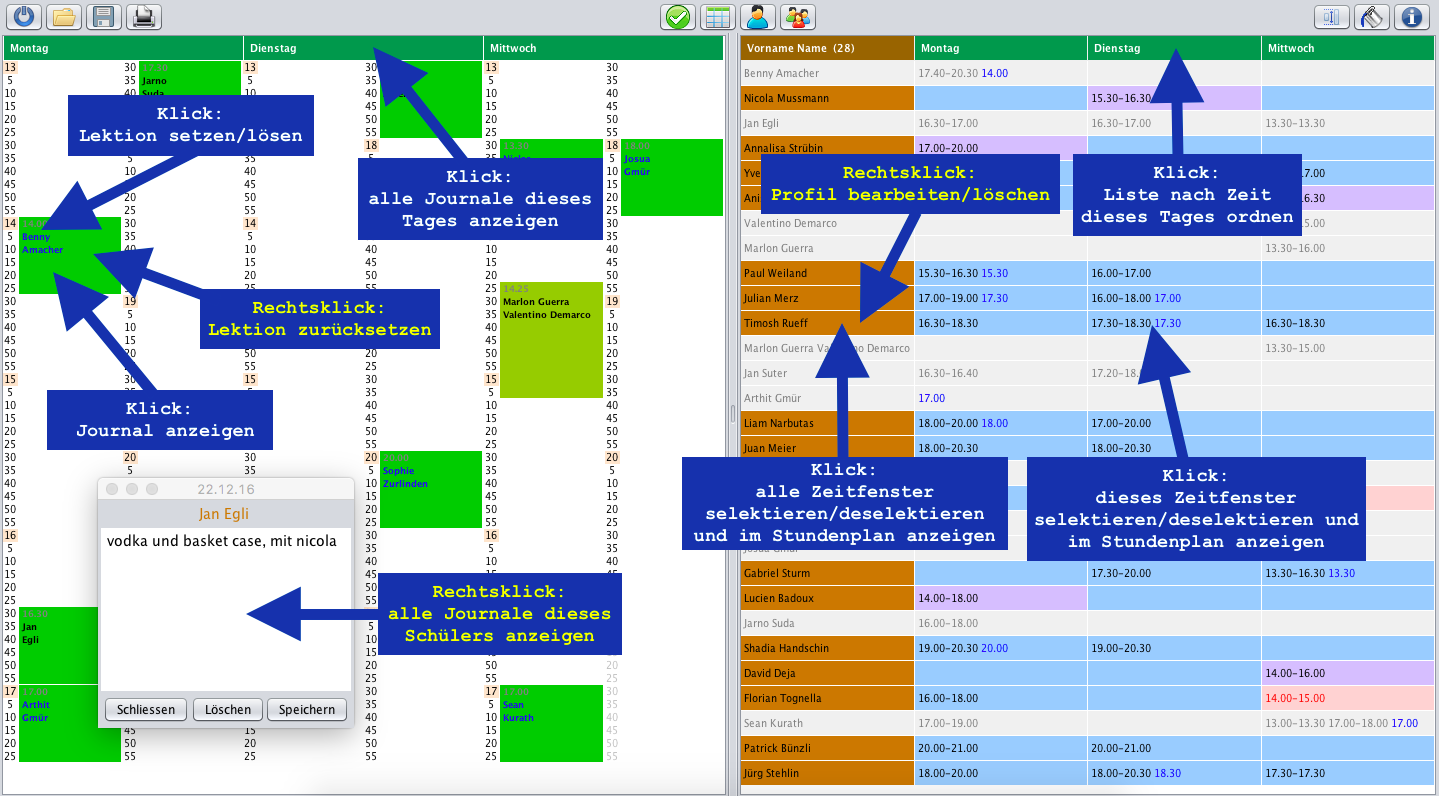
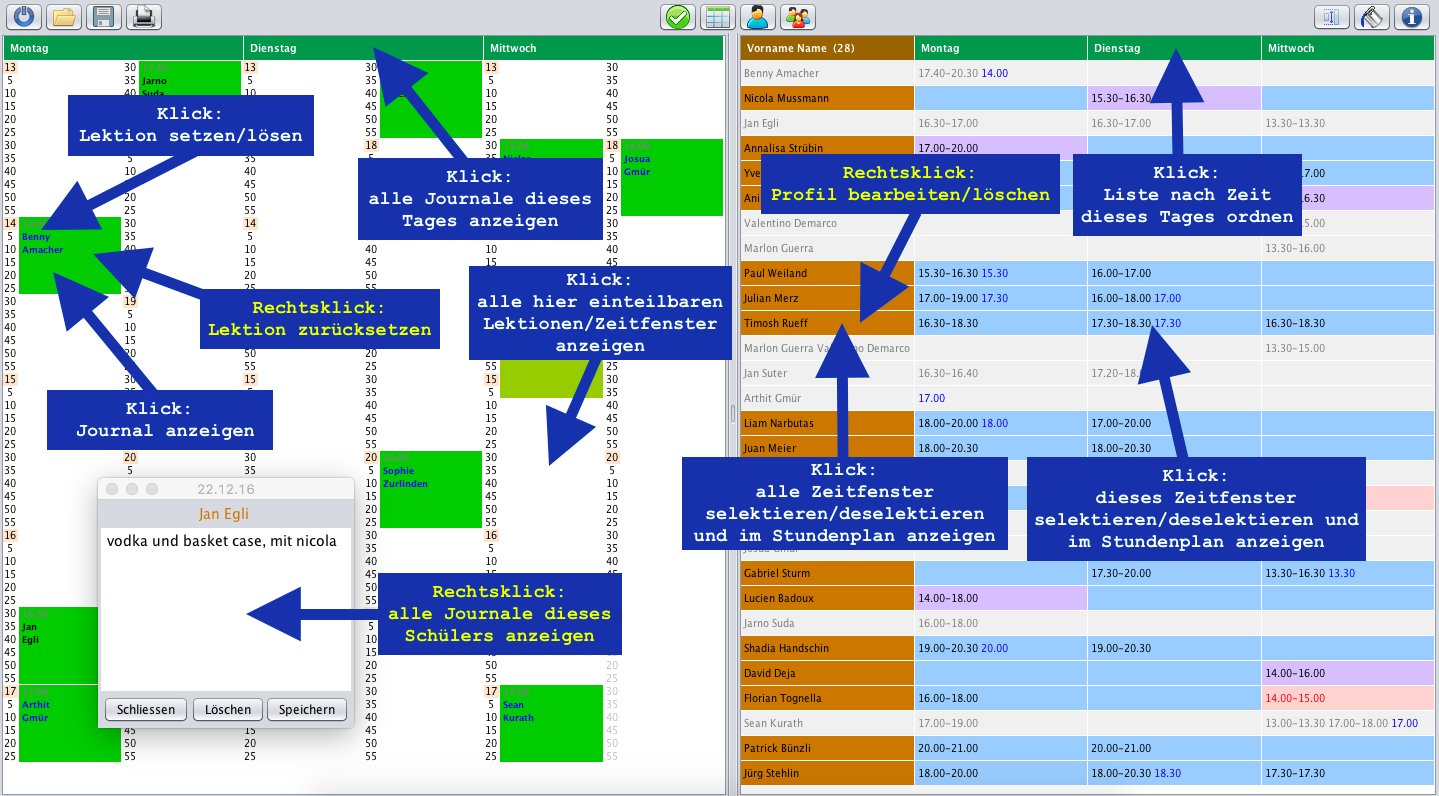
StundenPlaner finished!

Changed region(s): [[0.3058, 0.3317, 0.5198, 0.5729]]

diff --git a/src/userUtils/StudentTimesDistribution.java b/src/userUtils/StudentTimesDistribution.java
@@ -12,6 +12,7 @@ import java.util.ArrayList;
 import java.util.TreeMap;
 import utils.Colors;
 import utils.Time;
+import static utils.Time.*;
 
 /**
  *
@@ -24,7 +25,7 @@ public class StudentTimesDistribution {
     public static final int COLOR_RANGE = 5;
     private ScheduleTimes scheduleTimes;
     private ArrayList<TreeMap> blueMaps, redMaps, purpleMaps;
-    private Time inc, timeMark;
+    private Time timeStep, timeMark;
     private Color color;
 
     public StudentTimesDistribution(ScheduleTimes scheduleTimes) {
@@ -47,12 +48,16 @@ public class StudentTimesDistribution {
 
     private void createColorMaps() {
         for (int i = 0; i < scheduleTimes.getNumberOfValidDays(); i++) {
-            setTimeComponents(scheduleTimes.getValidScheduleDayAt(i));
+            ScheduleDay scheduleDay = scheduleTimes.getValidScheduleDayAt(i);
+            setTimeComponents(scheduleDay);
             TreeMap<Time, Color> blueMap = new TreeMap<>();
             TreeMap<Time, Color> redMap = new TreeMap<>();
             TreeMap<Time, Color> purpleMap = new TreeMap<>();
             for (int j = 0; j < COLOR_RANGE; j++) {
-                timeMark = timeMark.plus(inc);
+                timeMark = timeMark.plus(timeStep);
+                if (j == COLOR_RANGE - 1) { 
+                    timeMark = scheduleDay.getValidEnd(); // Rundungsfehler 
+                }
                 color = Colors.getBlue(j);
                 blueMap.put(timeMark, color);
                 color = Colors.getRed(j);
@@ -69,8 +74,8 @@ public class StudentTimesDistribution {
     private void setTimeComponents(ScheduleDay scheduleDay) {
         timeMark = new Time();
         timeMark = scheduleDay.getValidStart().clone();
-        inc = new Time();
-        inc = (scheduleDay.getValidEnd().minus(scheduleDay.getValidStart())).divBy(COLOR_RANGE, Time.ROUND_UP);
+        timeStep = new Time();
+        timeStep = (scheduleDay.getValidEnd().minus(scheduleDay.getValidStart())).divBy(COLOR_RANGE, ROUND_UP);
     }
 
     public Color getBlue(Time time, int dayIndex) {

diff --git a/src/dataEntryUI/ProfileInputMask.java b/src/dataEntryUI/ProfileInputMask.java
@@ -10,6 +10,12 @@ import core.Database;
 import core.Profile;
 import core.ScheduleTimes;
 import core.StudentTimes;
+import dataEntryUI.group.GroupInputMask;
+import dataEntryUI.group.profiles.GroupEdit;
+import dataEntryUI.group.profiles.GroupEntry;
+import dataEntryUI.student.StudentEdit;
+import dataEntryUI.student.StudentEntry;
+import dataEntryUI.student.StudentInputMask;
 import exceptions.IllegalTimeSlotException;
 import exceptions.NameDuplicateException;
 import exceptions.OutOfBoundException;
@@ -37,10 +43,13 @@ import javax.swing.event.CaretListener;
 import mainframe.MainFrame;
 import scheduleData.ScheduleTimeFrame;
 import utils.Dialogs;
+import utils.GUIConstants;
 
 /**
  *
- * @author mathiaskielholz
+ * Superklasse von {@link StudentInputMask}, {@link GroupInputMask} (= Eingabemasken-UI von
+ * von {@link StudentEntry}, {@link StudentEdit}, {@link GroupEntry}, {@link GroupEdit}
+ * 
  */
 public abstract class ProfileInputMask extends JPanel {
 
@@ -70,6 +79,7 @@ public abstract class ProfileInputMask extends JPanel {
         scheduleTimes = database.getScheduleTimes();
         lectionTypes = new String[]{"30", "40", "50", "KGU", "SDG"}; // = default
         setLayout(new BorderLayout());
+        setBorder(GUIConstants.LIGHT_BORDER);
         createWidgets();
         addWidgets();
         addTextFieldListeners();

diff --git a/src/attendanceListUI/HeaderField.java b/src/attendanceListUI/HeaderField.java
@@ -21,17 +21,15 @@ import static utils.Colors.*;
 
 /**
  *
- * @author mathiaskielholz
+ * Renderer-Component für {@link AttendanceTable}
  */
 public class HeaderField extends JLabel implements TableCellRenderer, MouseMotionListener {
 
     private AttendanceTable attendanceTable;
-    private AttendanceListData attendanceListData;
     private int movedCol;
 
     public HeaderField(AttendanceTable attendanceTable) {
         this.attendanceTable = attendanceTable;
-        attendanceListData = (AttendanceListData) attendanceTable.getModel();
         setBorder(BorderFactory.createMatteBorder(0, 0, 1, 1, BACKGROUND_COLOR));
         setPreferredSize(new Dimension(0, 25));
         setForeground(BACKGROUND_COLOR);
@@ -51,13 +49,6 @@ public class HeaderField extends JLabel implements TableCellRenderer, MouseMotio
             } else {
                 setBackground(DAYFIELD_COLOR);
             }
-//            {
-//                if (attendanceListData.isJournalArchiveEnabled()) {
-//                    setBackground(col == attendanceListData.getCurrentWeekIndex() + 1 ? DAYFIELD_COLOR : DARK_GREEN);
-//                } else {
-//                    setBackground(DAYFIELD_COLOR);
-//                }
-//            }
         }
         String name = (String) value;
         setText(name);

diff --git a/src/dataEntryUI/TimeSelectionTable.java b/src/dataEntryUI/TimeSelectionTable.java
@@ -7,6 +7,7 @@ package dataEntryUI;
 
 import core.ScheduleTimes;
 import core.StudentTimes;
+import dataEntryUI.schedule.ScheduleInputMask;
 import java.awt.Component;
 import javax.swing.JTable;
 import javax.swing.table.DefaultTableCellRenderer;
@@ -15,8 +16,8 @@ import utils.Colors;
 
 /**
  *
- * Sub-UI für die Zeiteinträge, das von {@link ScheduleInputMask} und
- * {@link StudentInputMask} benutzt wird
+ * Sub-UI für die Zeiteinträge von {@link ScheduleInputMask} und
+ * {@link ProfileInputMask}
  */
 public class TimeSelectionTable extends JTable {
 
@@ -61,7 +62,7 @@ public class TimeSelectionTable extends JTable {
         setDefaultRenderer(String.class, new DefaultTableCellRenderer() {
             @Override
             public Component getTableCellRendererComponent(JTable table, Object o, boolean isSelected, boolean hasFocus, int row, int col) {
-                boolean isValidTimeslot2 =!(KGUselected && (col == 3 || col == 4));
+                boolean isValidTimeslot2 = !(KGUselected && (col == 3 || col == 4));
                 setText(studentTimes.getValueAt(row, col).toString());
                 if (scheduleTimes.isValidDay(row) && isValidTimeslot2) {
                     setBackground(Colors.BACKGROUND_COLOR);

diff --git a/src/mainframe/MainFrame.java b/src/mainframe/MainFrame.java
@@ -59,7 +59,7 @@ import utils.GUIConstants;
 
 /**
  *
- * Erzeugung und Initialisierung der StundenPlaner-GUI
+ * Zentrale Klasse für Erzeugung und Initialisierung der StundenPlaner-GUI
  */
 public class MainFrame extends JFrame implements DatabaseListener {
 
@@ -319,6 +319,7 @@ public class MainFrame extends JFrame implements DatabaseListener {
                 JDialog infoFrame = new JDialog(MainFrame.this);
                 infoFrame.setLocation(20, 60);
                 infoFrame.setMinimumSize(GUIConstants.BIG_DIALOG_DIMENSION);
+                infoFrame.setTitle("Screenshot: Alle wichtigen Klicks auf einen Blick");
                 JScrollPane screenshotPane = new JScrollPane(new JLabel(Icons.getIcon("screenshot.png")));
                 JPanel mainPanel = new JPanel(new BorderLayout());
                 JPanel bottom = new JPanel();
@@ -395,6 +396,8 @@ public class MainFrame extends JFrame implements DatabaseListener {
     }
 
     private void showStundenPlaner() {
+        String filename = fileChooser.getSelectedFile().getName();
+        setTitle(filename.substring(0, filename.lastIndexOf(".")));
         scheduleData.updateTableData();
         updateSchedule();
         studentListData.updateAfterFileEntry();

diff --git a/src/dataEntryUI/DataEntryAndEdit.java b/src/dataEntryUI/DataEntryAndEdit.java
@@ -9,8 +9,12 @@ import utils.GUIConstants;
 import dataEntryUI.student.StudentInputMask;
 import dataEntryUI.schedule.ScheduleInputMask;
 import dataEntryUI.group.GroupInputMask;
+import dataEntryUI.group.profiles.GroupEdit;
+import dataEntryUI.group.profiles.GroupEntry;
 import dataEntryUI.schedule.ScheduleEdit;
 import dataEntryUI.schedule.ScheduleEntry;
+import dataEntryUI.student.StudentEdit;
+import dataEntryUI.student.StudentEntry;
 import javax.swing.JDialog;
 import mainframe.MainFrame;
 import scheduleData.ScheduleTimeFrame;
@@ -18,9 +22,8 @@ import studentListData.StudentListData;
 
 /**
  *
- * Superklasse von
- * {@link ScheduleEntry}, {@link ScheduleEdit}, {@link StudentEntry} und
- * {@link StudentEdit}
+ * Superklasse aller Eingabe-Dialogfenster {@link ScheduleEntry}, {@link ScheduleEdit}, {@link StudentEntry}, {@link StudentEdit},
+ *  {@link GroupEntry}, {@link GroupEdit}
  */
 public abstract class DataEntryAndEdit extends JDialog {
 

diff --git a/src/dataEntryUI/schedule/ScheduleInputMask.java b/src/dataEntryUI/schedule/ScheduleInputMask.java
@@ -29,10 +29,11 @@ import javax.swing.JOptionPane;
 import mainframe.MainFrame;
 import scheduleData.ScheduleData;
 import utils.Dialogs;
+import utils.GUIConstants;
 
 /**
  *
- * UI, das von {@link ScheduleEntry} und {@link ScheduleEdit} benutzt wird
+ * UI von {@link ScheduleEntry} und {@link ScheduleEdit}
  */
 public class ScheduleInputMask extends JPanel {
 
@@ -53,6 +54,7 @@ public class ScheduleInputMask extends JPanel {
         scheduleData = mainFrame.getScheduleData();
         scheduleTimes = database.getScheduleTimes();
         setLayout(new BorderLayout());
+        setBorder(GUIConstants.LIGHT_BORDER);
         createWidgets();
         addWidgets();
     }

diff --git a/src/dataEntryUI/group/SelectableMemberGroupInputMask.java b/src/dataEntryUI/group/SelectableMemberGroupInputMask.java
@@ -9,7 +9,9 @@ import static core.ProfileTypes.*;
 import core.Database;
 import core.Profile;
 import core.StudentDay;
+import dataEntryUI.group.kgu.KGUEdit;
 import dataEntryUI.group.kgu.KGUEntry;
+import dataEntryUI.group.sdg.SDGEdit;
 import dataEntryUI.group.sdg.SDGEntry;
 import dataEntryUI.schedule.ScheduleEdit;
 import static utils.GUIConstants.*;
@@ -43,7 +45,8 @@ import utils.Dialogs;
 
 /**
  *
- * @author mathiaskielholz
+ * Superklasse von {@link KGUEntry}, {@link KGUEdit}, {@link SDGEntry}, {@link SDGEdit}
+ * (Dialogfenster und Eingabemasken-UI aller "selectableMember"-Gruppen)
  */
 public abstract class SelectableMemberGroupInputMask extends JDialog {
 

diff --git a/src/studentJournal/JournalDayView.java b/src/studentJournal/JournalDayView.java
@@ -21,7 +21,6 @@ import javax.swing.JDialog;
 import javax.swing.JPanel;
 import javax.swing.JScrollPane;
 import javax.swing.JTextPane;
-import javax.swing.SwingUtilities;
 import javax.swing.event.MouseInputAdapter;
 import javax.swing.text.BadLocationException;
 import javax.swing.text.Style;
@@ -37,7 +36,7 @@ import static utils.GUIConstants.*;
 
 /**
  *
- * @author mathiaskielholz
+ * Gesamtsicht der laufenden Journale von {@link JournalEntry} aller Schüler eines Tages
  */
 public class JournalDayView extends JDialog {
 

diff --git a/src/studentJournal/JournalArchiveView.java b/src/studentJournal/JournalArchiveView.java
@@ -12,7 +12,6 @@ import java.awt.Font;
 import java.awt.event.ActionEvent;
 import java.awt.event.ActionListener;
 import java.util.ArrayList;
-import javax.swing.Action;
 import javax.swing.Box;
 import javax.swing.BoxLayout;
 import javax.swing.JButton;
@@ -30,7 +29,7 @@ import utils.GUIConstants;
 
 /**
  *
- * @author mathiaskielholz
+ * Gesamtsicht aller Journale eines Schülers, die über {@link JournalEntry} gespeichert wurden
  */
 public class JournalArchiveView extends JournalDayView {
 

diff --git a/src/dataEntryUI/group/GroupInputMask.java b/src/dataEntryUI/group/GroupInputMask.java
@@ -8,13 +8,15 @@ package dataEntryUI.group;
 import core.Database;
 import core.Profile;
 import dataEntryUI.ProfileInputMask;
+import dataEntryUI.group.profiles.GroupEdit;
+import dataEntryUI.group.profiles.GroupEntry;
 import java.awt.event.ActionEvent;
 import java.awt.event.ActionListener;
 import javax.swing.JComboBox;
 
 /**
  *
- * @author mathiaskielholz
+ * Eingabemaske Gruppenprofil von {@link GroupEntry}, {@link GroupEdit}
  */
 public class GroupInputMask extends ProfileInputMask {
 

diff --git a/src/attendanceListUI/AttendanceListEdit.java b/src/attendanceListUI/AttendanceListEdit.java
@@ -6,7 +6,6 @@
 package attendanceListUI;
 
 import attendanceListData.AttendanceListData;
-import attendanceListUI.AttendanceListUI;
 import com.toedter.calendar.JCalendar;
 import core.Database;
 import java.awt.BorderLayout;
@@ -28,7 +27,7 @@ import utils.DateUtil;
 
 /**
  *
- * @author mathiaskielholz
+ * Dialogfenster für das Erstellen/Löschen der Unterrichtswochen in {@link AttendanceListUI}
  */
 public class AttendanceListEdit extends JDialog {
 
